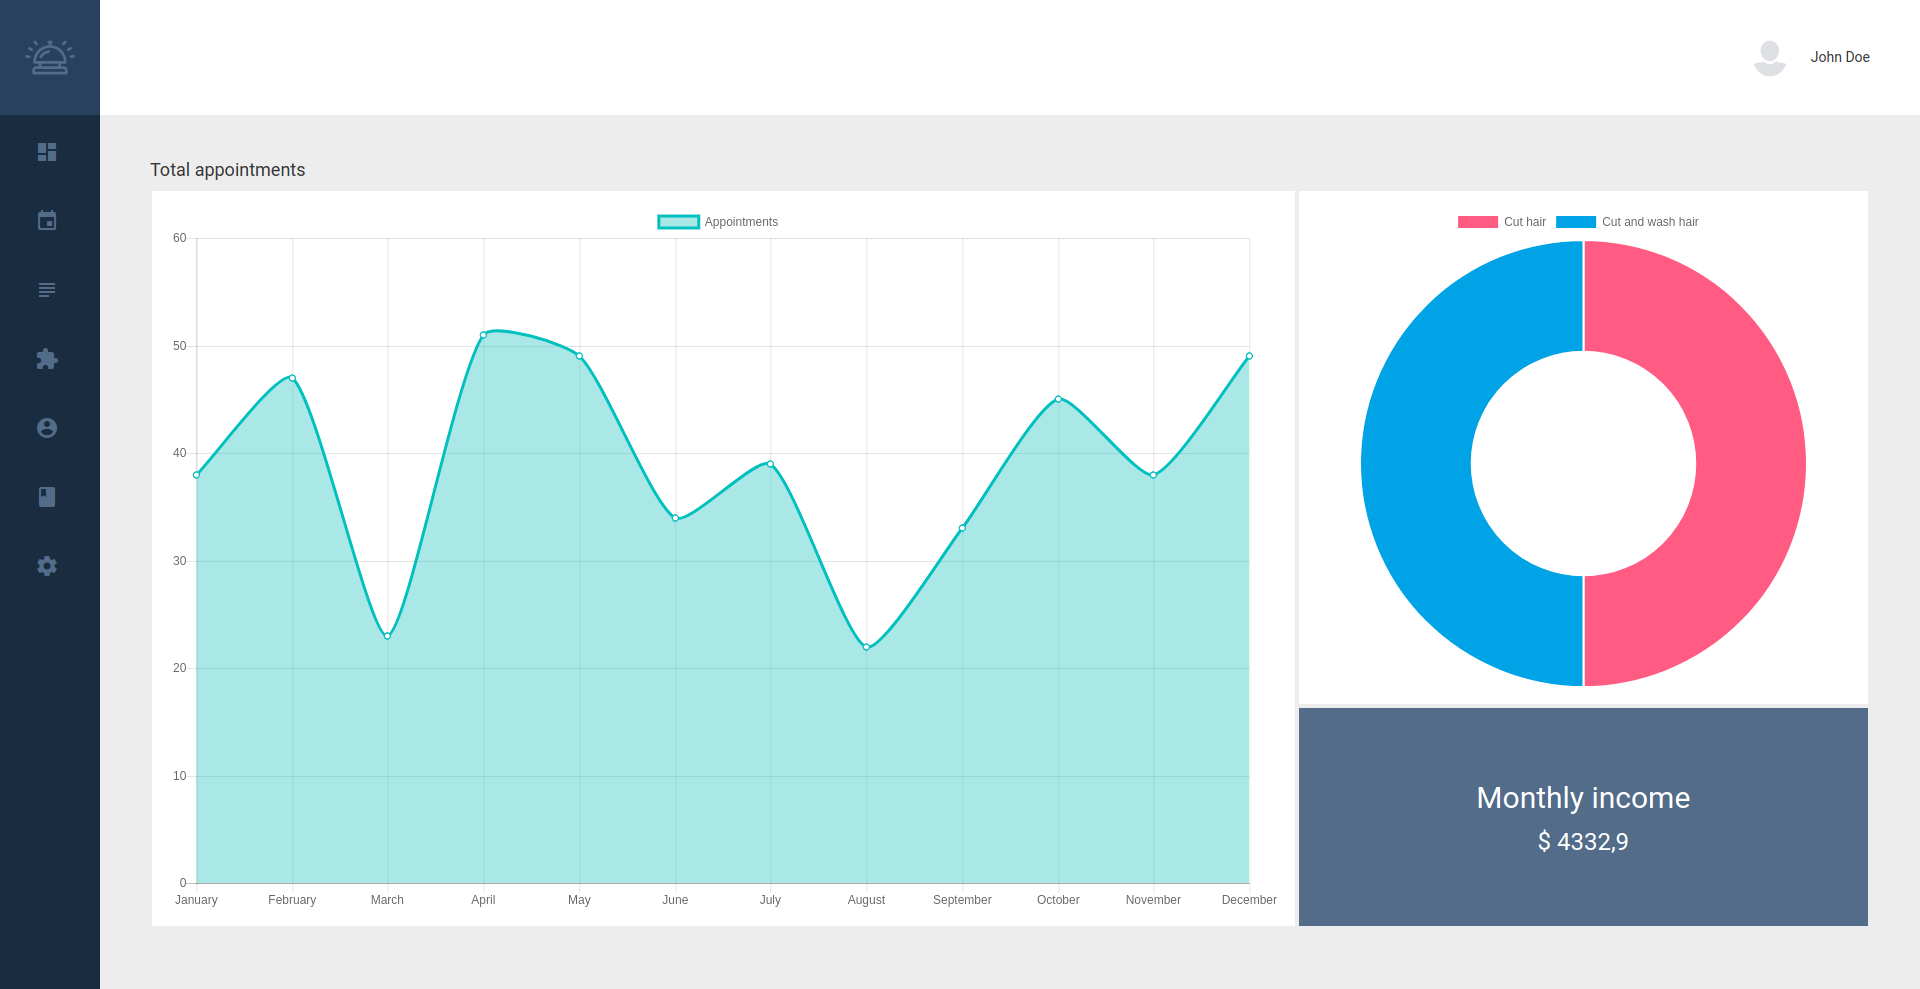
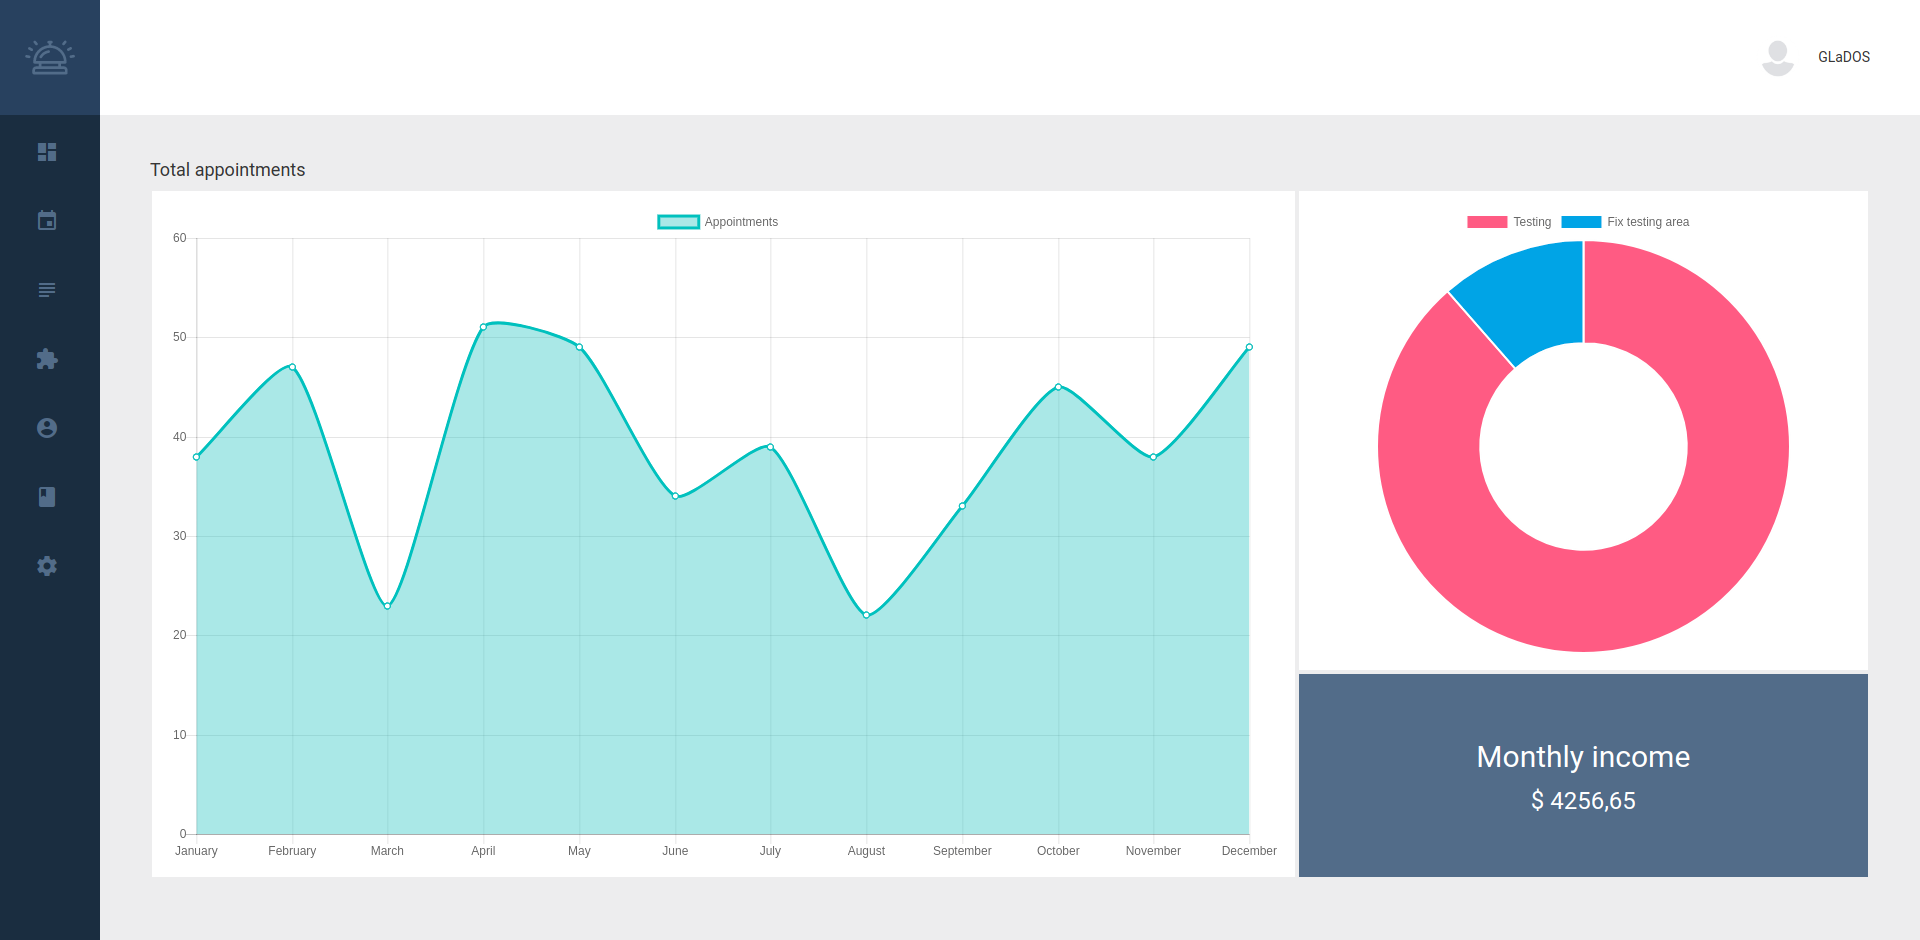
Changed the seeders names and updated the screenshot

diff --git a/database/seeds/TestDataSeeder.php b/database/seeds/TestDataSeeder.php
@@ -18,25 +18,29 @@ class TestDataSeeder extends Seeder
         $names = ['Allison','Arthur','Ana','Alex','Arlene','Alberto','Barry','Bertha','Bill','Bonnie','Bret','Beryl','Chantal','Cristobal','Claudette','Charley','Cindy','Chris','Dean','Dolly','Danny','Danielle','Dennis','Debby','Erin','Edouard','Erika','Earl','Emily','Ernesto','Felix','Fay','Fabian','Frances','Franklin','Florence','Gabielle','Gustav','Grace','Gaston','Gert','Gordon','Humberto','Hanna','Henri','Hermine','Harvey','Helene','Iris','Isidore','Isabel','Ivan','Irene','Isaac','Jerry','Josephine','Juan','Jeanne','Jose','Joyce','Karen','Kyle','Kate','Karl','Katrina','Kirk','Lorenzo','Lili','Larry','Lisa','Lee','Leslie','Michelle','Marco','Mindy','Maria','Michael','Noel','Nana','Nicholas','Nicole','Nate','Nadine','Olga','Omar','Odette','Otto','Ophelia','Oscar','Pablo','Paloma','Peter','Paula','Philippe','Patty','Rebekah','Rene','Rose','Richard','Rita','Rafael','Sebastien','Sally','Sam','Shary','Stan','Sandy','Tanya','Teddy','Teresa','Tomas','Tammy','Tony','Van','Vicky','Victor','Virginie','Vince','Valerie','Wendy','Wilfred','Wanda','Walter','Wilma','William','Kumiko','Aki','Miharu','Chiaki','Michiyo','Itoe','Nanaho','Reina','Emi','Yumi','Ayumi','Kaori','Sayuri','Rie','Miyuki','Hitomi','Naoko','Miwa','Etsuko','Akane','Kazuko','Miyako','Youko','Sachiko','Mieko','Toshie','Junko'];
 
         $appointment_type1 = new AppointmentType();
-        $appointment_type1->name = 'Cut hair';
+        $appointment_type1->name = 'Testing';
         $appointment_type1->time = 30;
         $appointment_type1->buffer = 0;
         $appointment_type1->price = '17,95';
         $appointment_type1->company_id = 1;
         $appointment_type1->save();
 
-        $user = new User();
-        $user->firstname = 'John';
-        $user->surname = 'Doe';
-        $user->email = 'john@doe.com';
-        $user->phonenumber = '1234567890';
-        $user->password = bcrypt('johndoe');
-        $user->role = User::role('employee');
-        $user->active = 1;
-        $user->company_id = 1;
-        $user->save();
+        if (User::where('email', 'wheatley@aperturelabaratories.com')->first()) {
+            $user = User::where('email', 'wheatley@aperturelabaratories.com')->first();
+        } else {
+            $user = new User();
+            $user->firstname = 'Wheatley';
+            $user->surname = '';
+            $user->email = 'wheatley@aperturelabaratories.com';
+            $user->phonenumber = '1234567890';
+            $user->password = bcrypt('johndoe');
+            $user->role = User::role('employee');
+            $user->active = 1;
+            $user->company_id = 1;
+            $user->save();
+        }
 
-        for ($i = 0; $i <= 100; $i++) {
+        for ($i = 0; $i <= 200; $i++) {
             $appointment = new Appointment();
             $appointment->name = $names[array_rand($names)];
             $appointment->employee_id = $user->id;
@@ -51,14 +55,14 @@ class TestDataSeeder extends Seeder
         }
 
         $appointment_type2 = new AppointmentType();
-        $appointment_type2->name = 'Cut and wash hair';
+        $appointment_type2->name = 'Fix testing area';
         $appointment_type2->time = 45;
         $appointment_type2->buffer = 0;
         $appointment_type2->price = '24,95';
         $appointment_type2->company_id = 1;
         $appointment_type2->save();
 
-        for ($i = 0; $i <= 100; $i++) {
+        for ($i = 0; $i <= 25; $i++) {
             $appointment = new Appointment();
             $appointment->name = $names[array_rand($names)];
             $appointment->employee_id = $user->id;

diff --git a/database/seeds/CompaniesTableSeeder.php b/database/seeds/CompaniesTableSeeder.php
@@ -14,11 +14,11 @@ class CompaniesTableSeeder extends Seeder
         $company = \App\Models\Company::where('subdomain', 'Goudzwaard')->get();
         if ($company->isEmpty()) {
             DB::table('companies')->insert([
-                'name' => 'Goudzwaard',
-                'subdomain' => 'goudzwaard',
-                'email' => 'gijs.goudzwaard@gmail.com',
-                'address' => 'noorderwalstraat 5a',
-                'phonenumber' => '0642311100'
+                'name' => 'Aperture Laboratories',
+                'subdomain' => 'aperture',
+                'email' => 'root@aperturelabaratories.com',
+                'address' => '-',
+                'phonenumber' => '-'
             ]);
         }
     }

diff --git a/database/seeds/UsersTableSeeder.php b/database/seeds/UsersTableSeeder.php
@@ -16,10 +16,10 @@ class UsersTableSeeder extends Seeder
 
         if ($user->isEmpty()) {
             DB::table('users')->insert([
-                'firstname' => 'Gijs',
-                'surname' => 'Goudzwaard',
-                'email' => 'gijs.goudzwaard@gmail.com',
-                'phonenumber' => '0642311100',
+                'firstname' => 'GLaDOS',
+                'surname' => '',
+                'email' => 'glados@aperturelabaratories.com',
+                'phonenumber' => '-',
                 'password' => bcrypt('changeme'),
                 'role' => User::role('admin'),
                 'active' => 1,

diff --git a/readme.md b/readme.md
@@ -3,11 +3,15 @@
 ![Screenshot](https://github.com/GijsGoudzwaard/APPointment/blob/develop/screenshot.png)
 
 ### Installation
+**Setup the files**  
 `$ composer install`  
 `$ npm install`  
 `$ bower install`  
 `$ gulp`  
+**Setup the database**  
+`$ php artisan migrate`  
 `$ php artisan db:seed`  
 
 ### Adding test data
-`$ php artisan db:seed --class=TestDataSeeder`
+`$ php artisan db:seed --class=TestDataSeeder`  
+`$ php artisan cache:clear`
